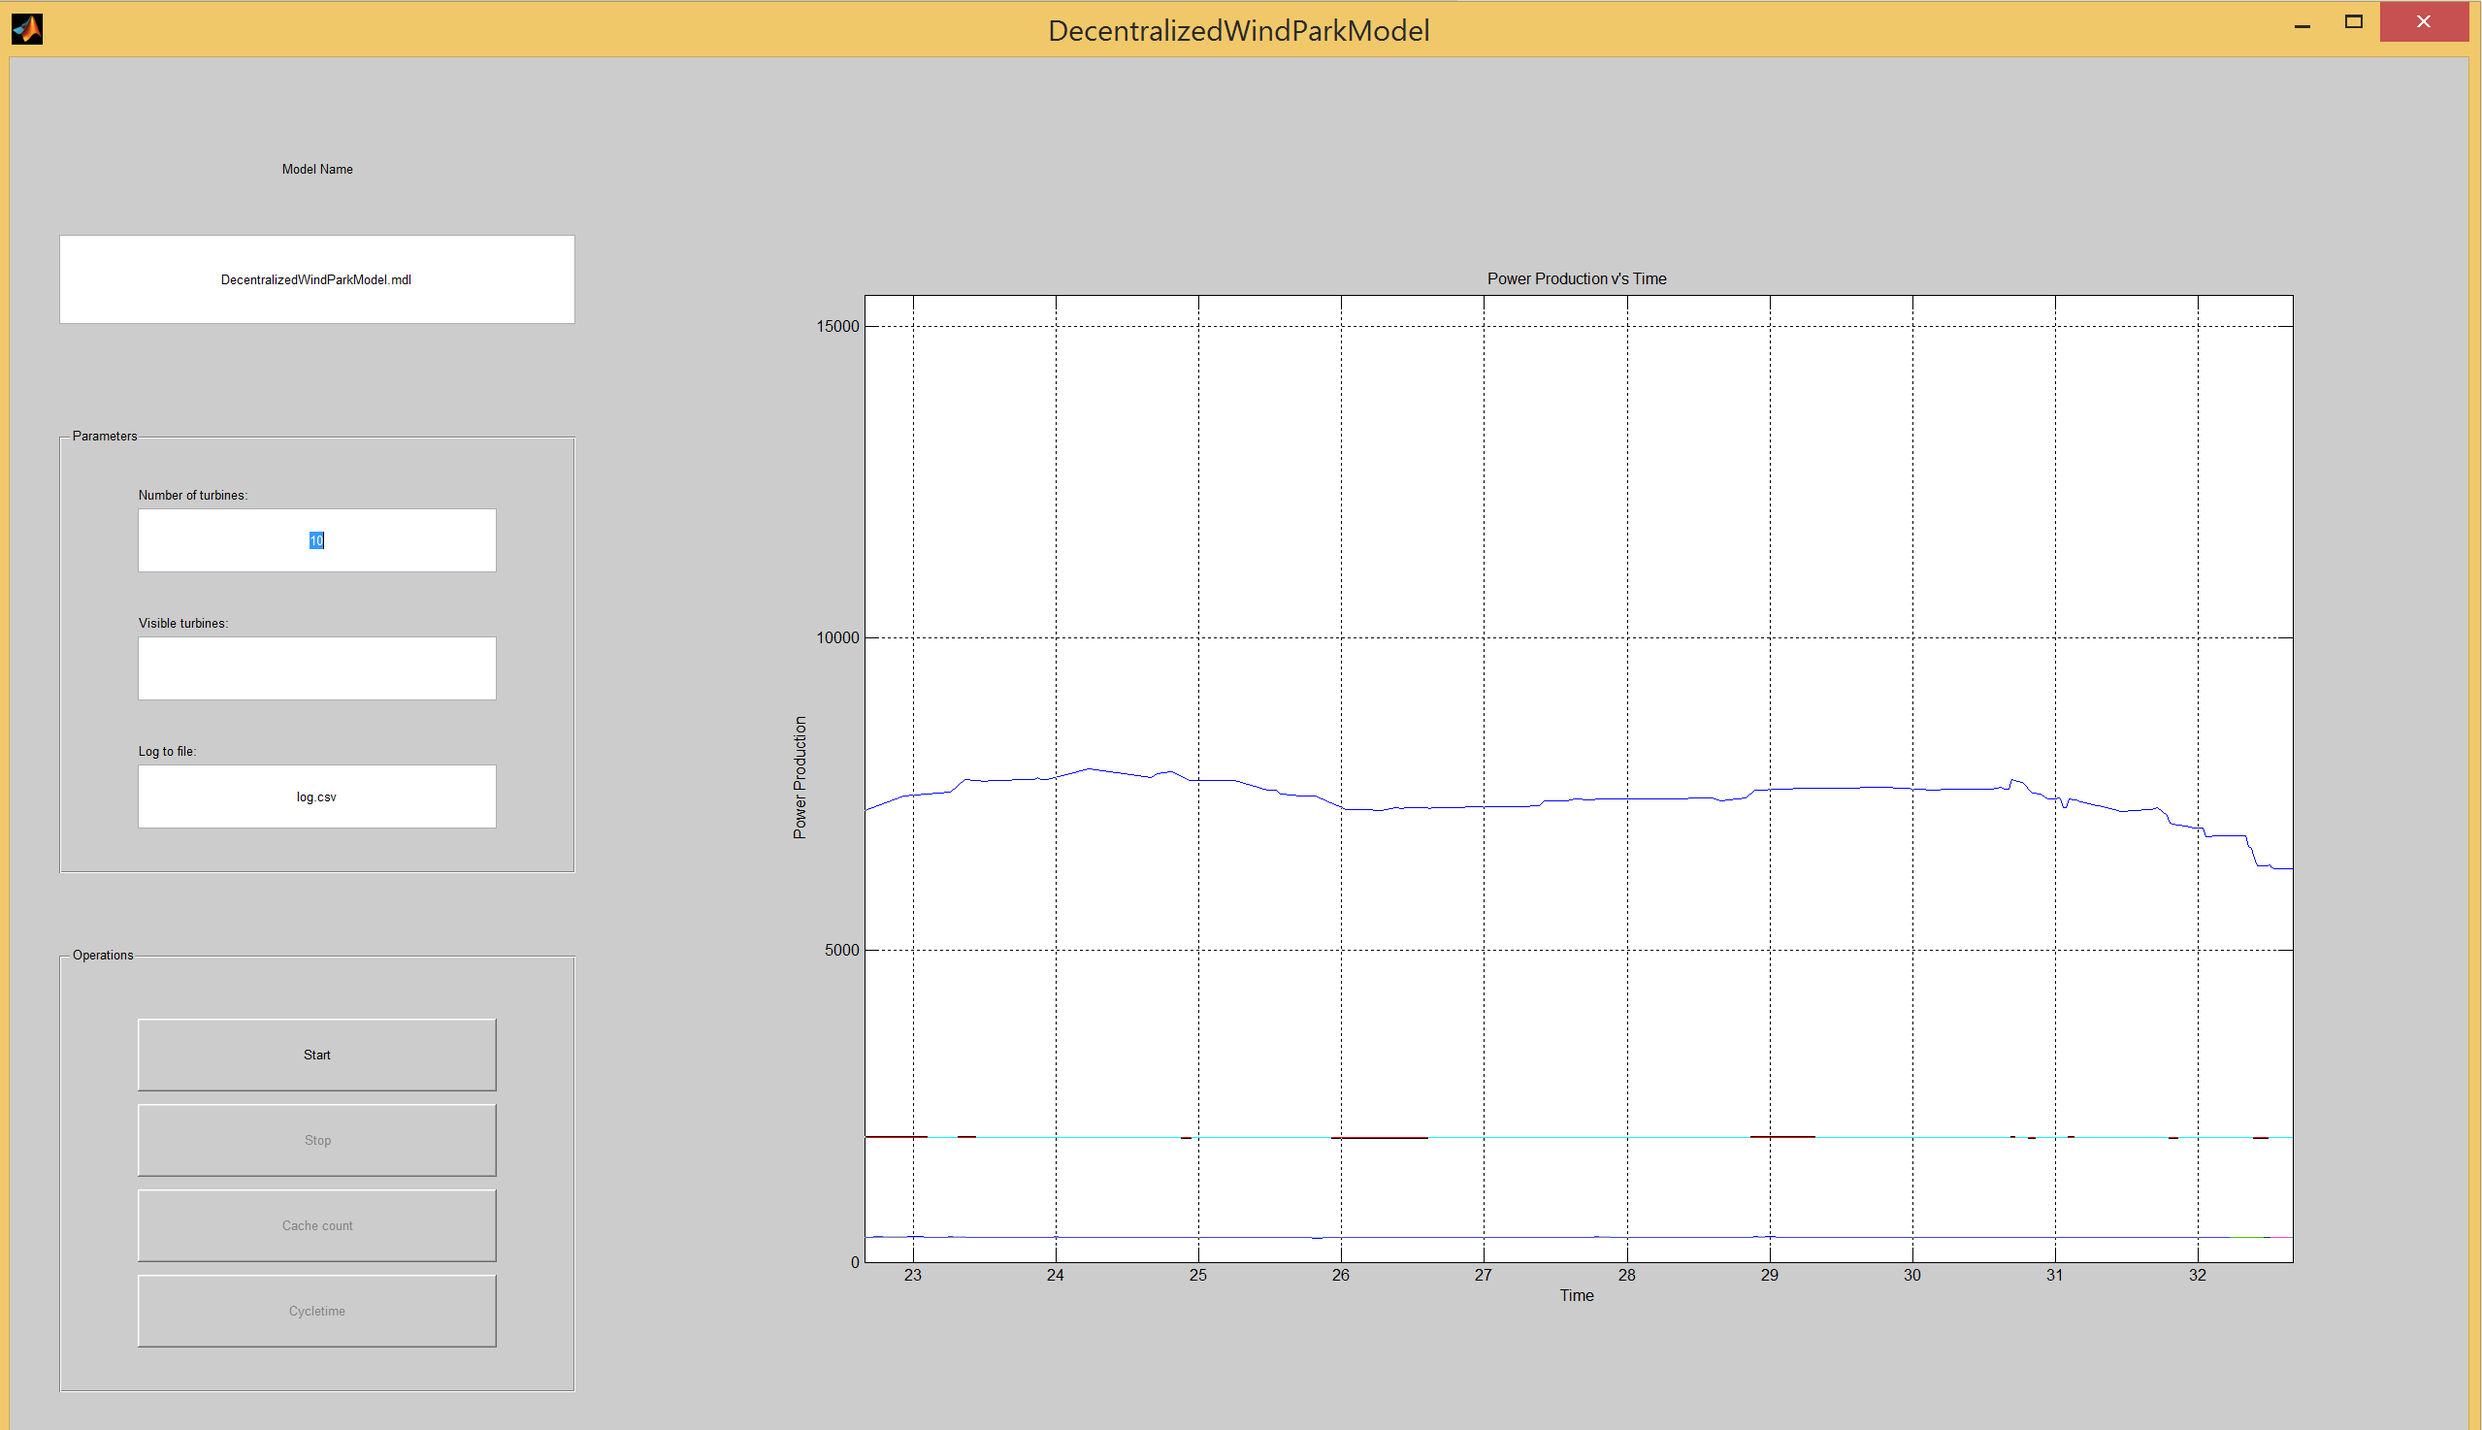
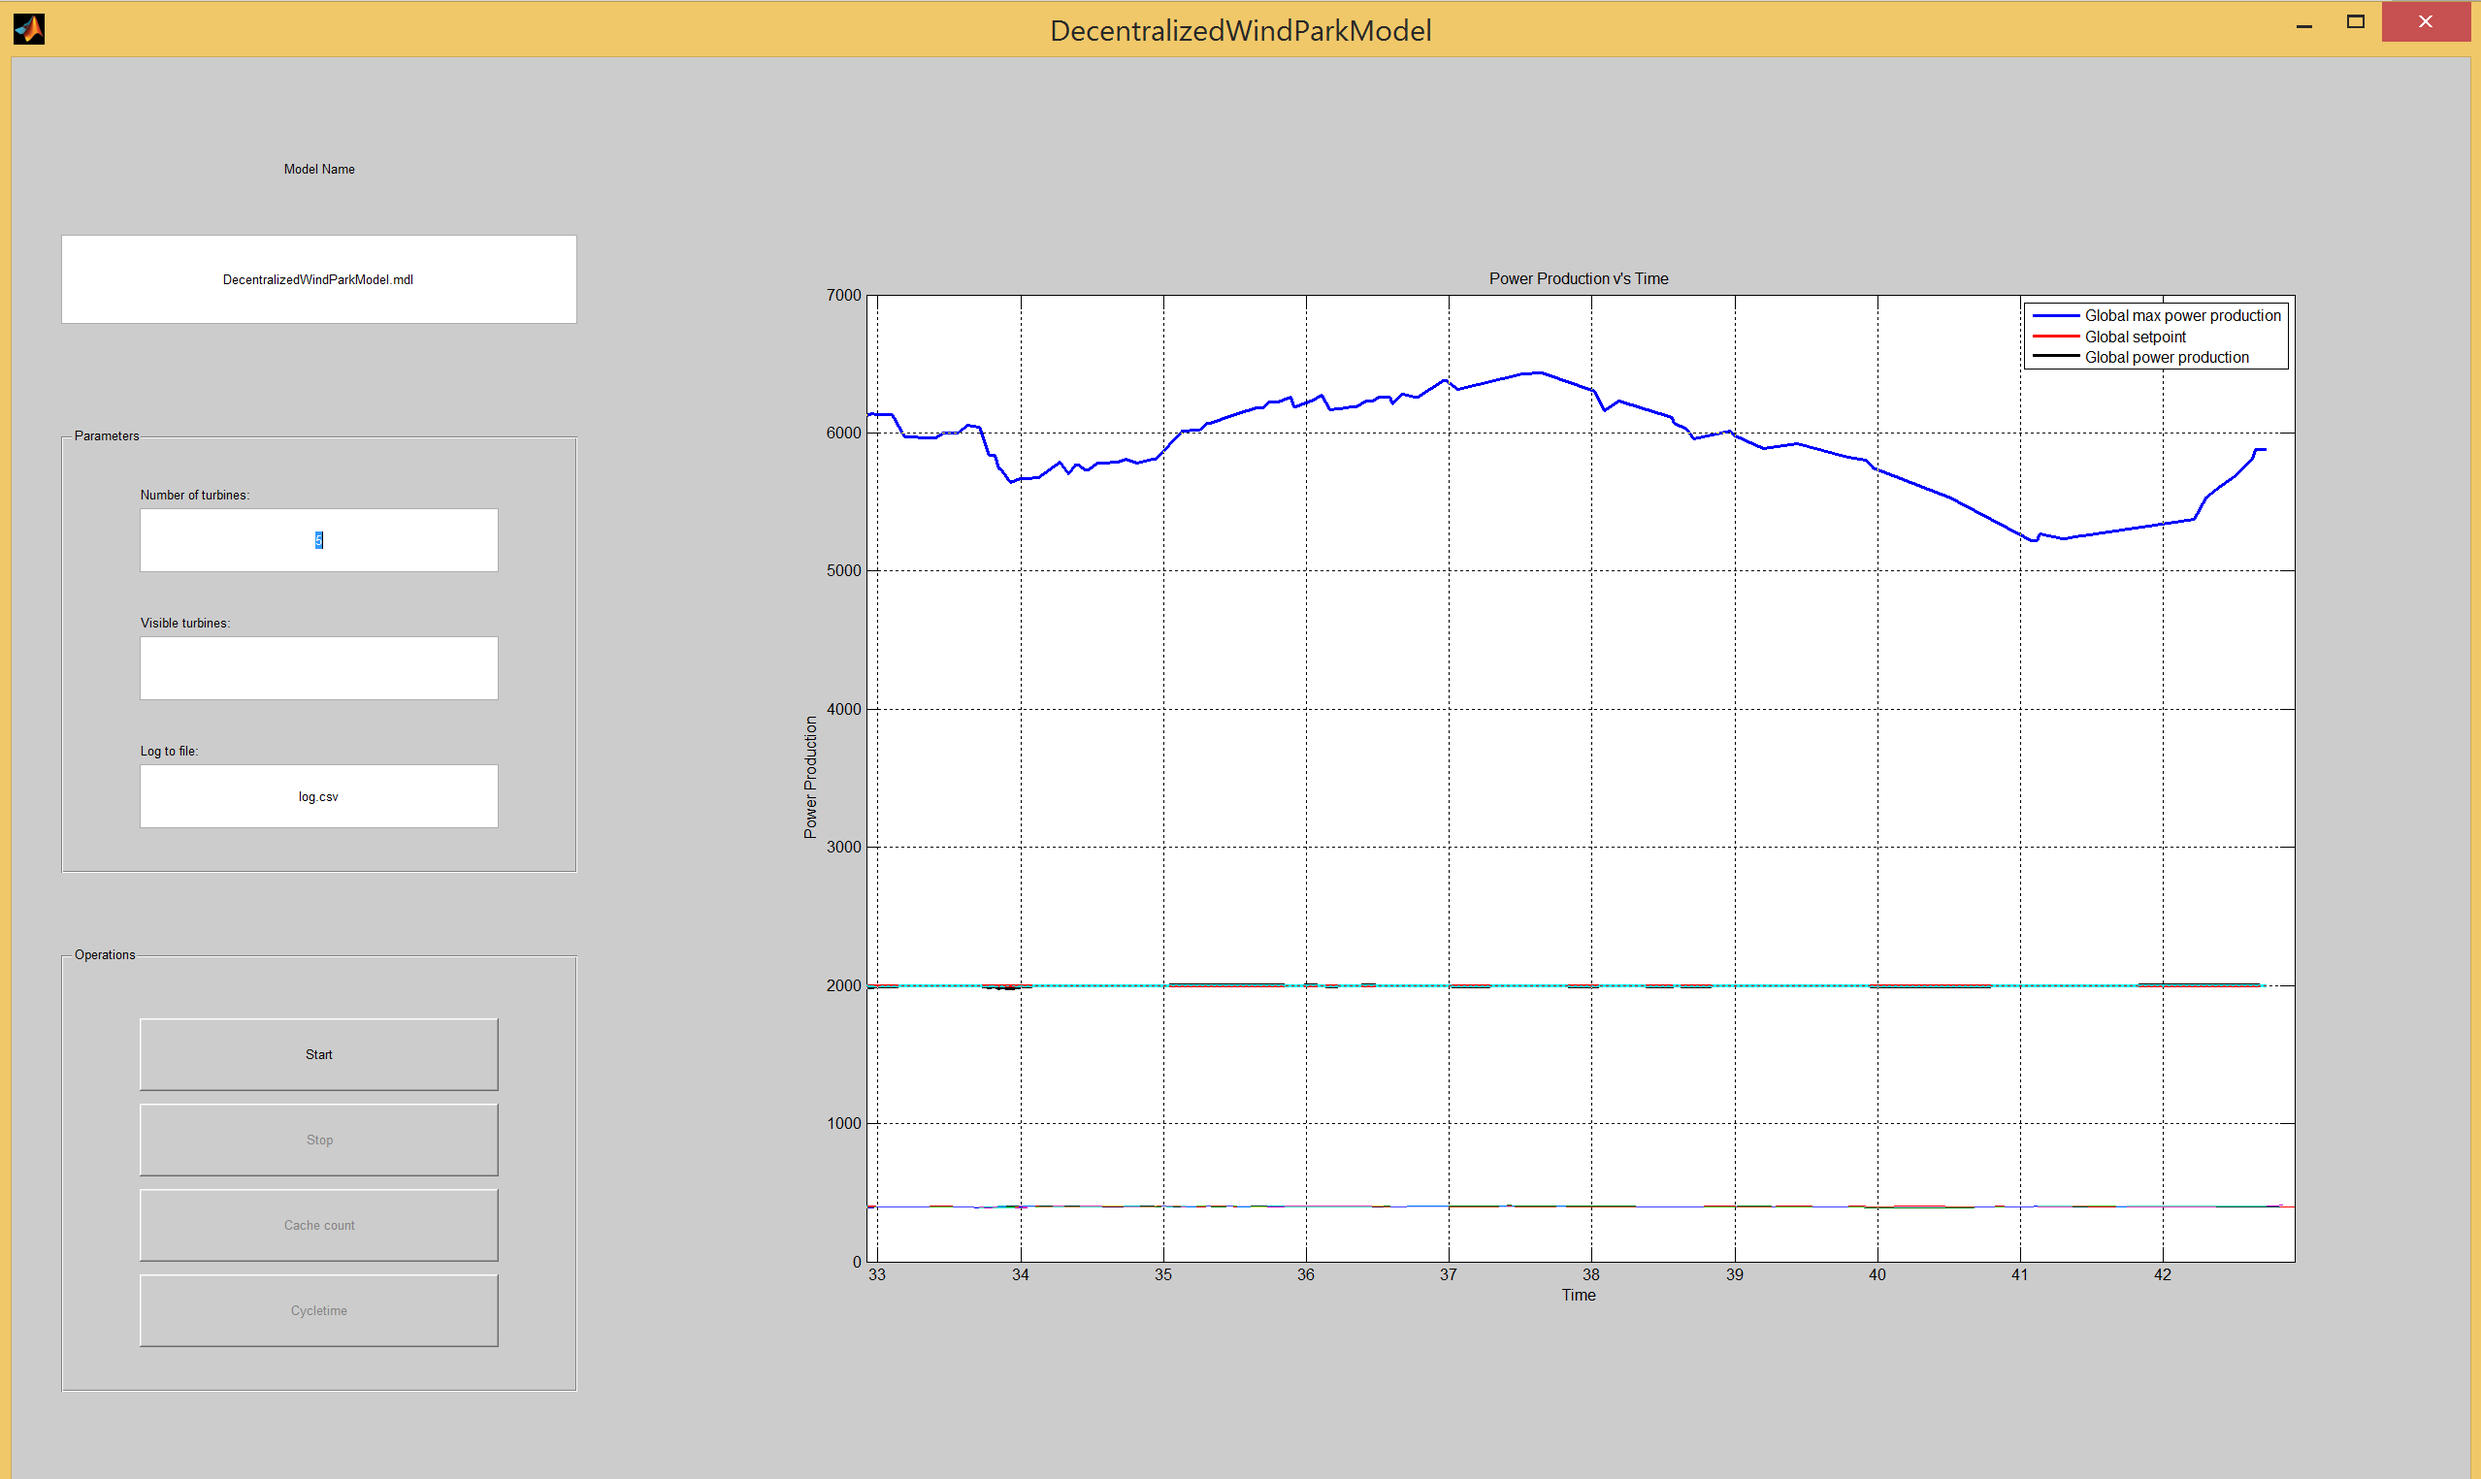
small changes to comparison, distributedcomputing, results and gui figure

diff --git a/Report/DistributedComputing.tex b/Report/DistributedComputing.tex
@@ -1,16 +1,16 @@
 \section{Distributed computing}
 
-As mentioned, The Wind Power Supervisor (WPS) and the Park Pilot does not scale well with the number of turbines, which forces Siemens to set the regulation cycle time after worst case scenarios (see \cref{sec:SiemensCase} for details). Today this cycle time is set to 150 ms and Siemens wants the time reduced to 10 ms. This is a major performance improvement and as such not a strict demand from the Siemens case, meaning any reduction in the 150 ms cycle time will be accepted. The goal for the decentralized solution to the Siemens case is therefore to reduce the regulation cycle time as much as possible.
+As mentioned, The Wind Power Supervisor (WPS) and the Park Pilot does not scale well with the number of turbines, which forces Siemens to set the regulation cycle time after worst case scenarios (see \cref{sec:SiemensCase} for details). Today the regulation cycle time is set to 150 ms and Siemens wants the regulation cycle time reduced to 10 ms. This is a major performance improvement and as such not a strict demand from the Siemens case, meaning any reduction in the 150 ms cycle time will be accepted. The goal for the decentralized solution to the Siemens case is therefore to reduce the regulation cycle time as much as possible.
 
-Looking at the park regulation algorithm \cref{sec:SiemensCase}, the reason for it being slow is primarily the communication overhead involved, when requesting set points from every turbine and sending new set points to every turbine, and that this communication overhead increases with the number of turbines involved with the regulation. So to reduce the regulation cycle time, this communication overhead needs to be reduced, by letting each turbine perform park regulations and calculate their own set points. 
+Looking at the park regulation cycle \cref{sec:SiemensCase}, the reason for it being slow is primarily the communication overhead involved, when requesting setpoints from every turbine and sending new setpoints to every turbine, and that this communication overhead increases with the number of turbines involved with the regulation. So to reduce the regulation cycle time, this communication overhead needs to be reduced, by letting each turbine perform the regulation cycle and calculate their own setpoints. 
 
 %Removing the communication overhead from the regulation algorithm involves detaching sharing of data from the algorithm. In order to do this
 
-For the Park Pilot to be able to compute a park regulation, the Park Pilot needs information about every turbine in the farm. In the same way, when decentralizing the Park Pilot, if a turbine is to compute park regulations, the turbine needs information about every other turbine. This means the windmill farm needs a global shared state, where information about every turbine in the farm is available to every turbine performing park regulations. 
+For the Park Pilot to be able to compute the regulation algorithm, the Park Pilot needs information about every turbine in the farm. In the same way, when decentralizing the Park Pilot, if a turbine is to compute the regulation algorithm, the turbine needs information about every other turbine. This means the wind farm needs a global shared state, where information about every turbine in the wind farm is available to every turbine performing the regulation algorithm. 
 
 %This is a major performance improvement and for that reason, performing the regulation sequence using a distributed database only is not enough, since reading/writing to the disk takes valuable milliseconds. Therefore regulation information needs to be kept in memory in order to keep regulation cycle time as low as possible. 
 
-This chapter describes and discusses different distributed computing paradigms as a way of making a global state for the turbines to compute park regulations themselves. The goal is to find the paradigm best suited for the Siemens case. Furthermore, the chapter describes relevant technologies within the chosen paradigm and discusses which technology that is the best for the Siemens case.
+This chapter describes and discusses different distributed computing paradigms as a way of making a global state for the turbines to compute the regulation algorithm themselves. The goal is to find the paradigm best suited for the Siemens case. Furthermore, the chapter describes relevant technologies within the chosen paradigm and discusses which technology is the best fit for the Siemens case.
 
 The chapter uses the following definition by Andrews~\cite{andrews2000foundations} for distributed computing: \textit{In distributed computing, each node or process has its own local memory and communication happens via message passing.}
 
@@ -32,7 +32,7 @@ With message passing being a low-level communication paradigm, the communication
 
 \subsection{Distributed shared memory}
 
-Shared memory is an attractive paradigm for designing parallel and distributed systems. Applications can use shared memory as a tool for the entire system to share a common state. However for loose coupled distributed systems, no physically shared memory is available to support such a model. Distributed shared memory (DSM) is a way of providing physically distributed memory machines a shared memory abstraction, illustrated on \cref{fig:distributedSharedMemory}.
+Shared memory is an attractive paradigm for designing parallel and distributed systems. Applications can use shared memory as a tool for the entire system to share a common state. However for loosely coupled distributed systems, no physically shared memory is available to support such a model. Distributed shared memory (DSM) is a way of providing physically distributed memory machines a shared memory abstraction, illustrated on \cref{fig:distributedSharedMemory}.
 
 \begin{figure}
 	\centering

diff --git a/Report/Results.tex b/Report/Results.tex
@@ -2,15 +2,15 @@
 
 \chapter{Results}
 
-\section{PS \ref{PS:Q:Feasibility}: Does our prototype work?}
-We start the prototype does it communicate with out a central system?
+\section{\ref{PS:Q:Feasibility}: Does our prototype work?}
+Presented below in \cref{fig:graphicalInterface} is shown a screenshot of the graphical interface while the decentralized solution is running 5 turbines. The global setpoint for power production is at 2000, illustrated by the red line and global power production is illustrated by the black line. The blue line illustrates the maximum available power production for the wind farm while the lines in the bottom around 400 is the power production of each individual turbine.
 
-\begin{figure}
+\begin{figure} [!h]
 	\centering
 	\includegraphics[width=0.9\textwidth,natwidth=610,natheight=642]{gui.png} 
 	\captionsetup{format=plain,font=footnotesize,labelfont={bf,defaultCapFont},labelsep=quad,singlelinecheck=no}
 	\caption[Graphical interface running 5 turbines]{
-		\label{fig:publishSubscribe} 
+		\label{fig:graphicalInterface} 
 		\footnotesize{%
 			Graphical interface running 5 turbines.
 		}
@@ -18,15 +18,15 @@ We start the prototype does it communicate with out a central system?
 \end{figure}
 
 
-\section{PS \ref{PS:Q:Availability}: Remove node without system failure?}
+\section{\ref{PS:Q:Availability}: Remove node without system failure?}
 Randomly kill client, plot a few seconds of data around the event.
 
-\section{PS \ref{PS:Q:Performance}: Can we make a solution that scales?}
+\section{\ref{PS:Q:Performance}: Can we make a solution that scales?}
 
 \input{figures/tikz/Resources1}
 
 
-\section{PS \ref{PS:Q:Scalability}: Does it scale well compared to the centralized version?}
+\section{\ref{PS:Q:Scalability}: Does it scale well compared to the centralized version?}
 \input{figures/tikz/CycleTimePlot1}
 
 \input{figures/tikz/CacheMisses1}

diff --git a/Report/Comparison.tex b/Report/Comparison.tex
@@ -1,9 +1,9 @@
 % !TeX spellcheck = en_US
 \chapter{Discussion}
 
-\section{Comparison of decentralized with new centralized}
+\section{Comparison of decentralized solution with centralized solution}
 
-\section{Comparison of decentralized with existing methods}
+\section{Comparison of decentralized with current Siemens system}
 
 \begin{itemize}
 	\item Test parameters: Our system vs Siemens system?
